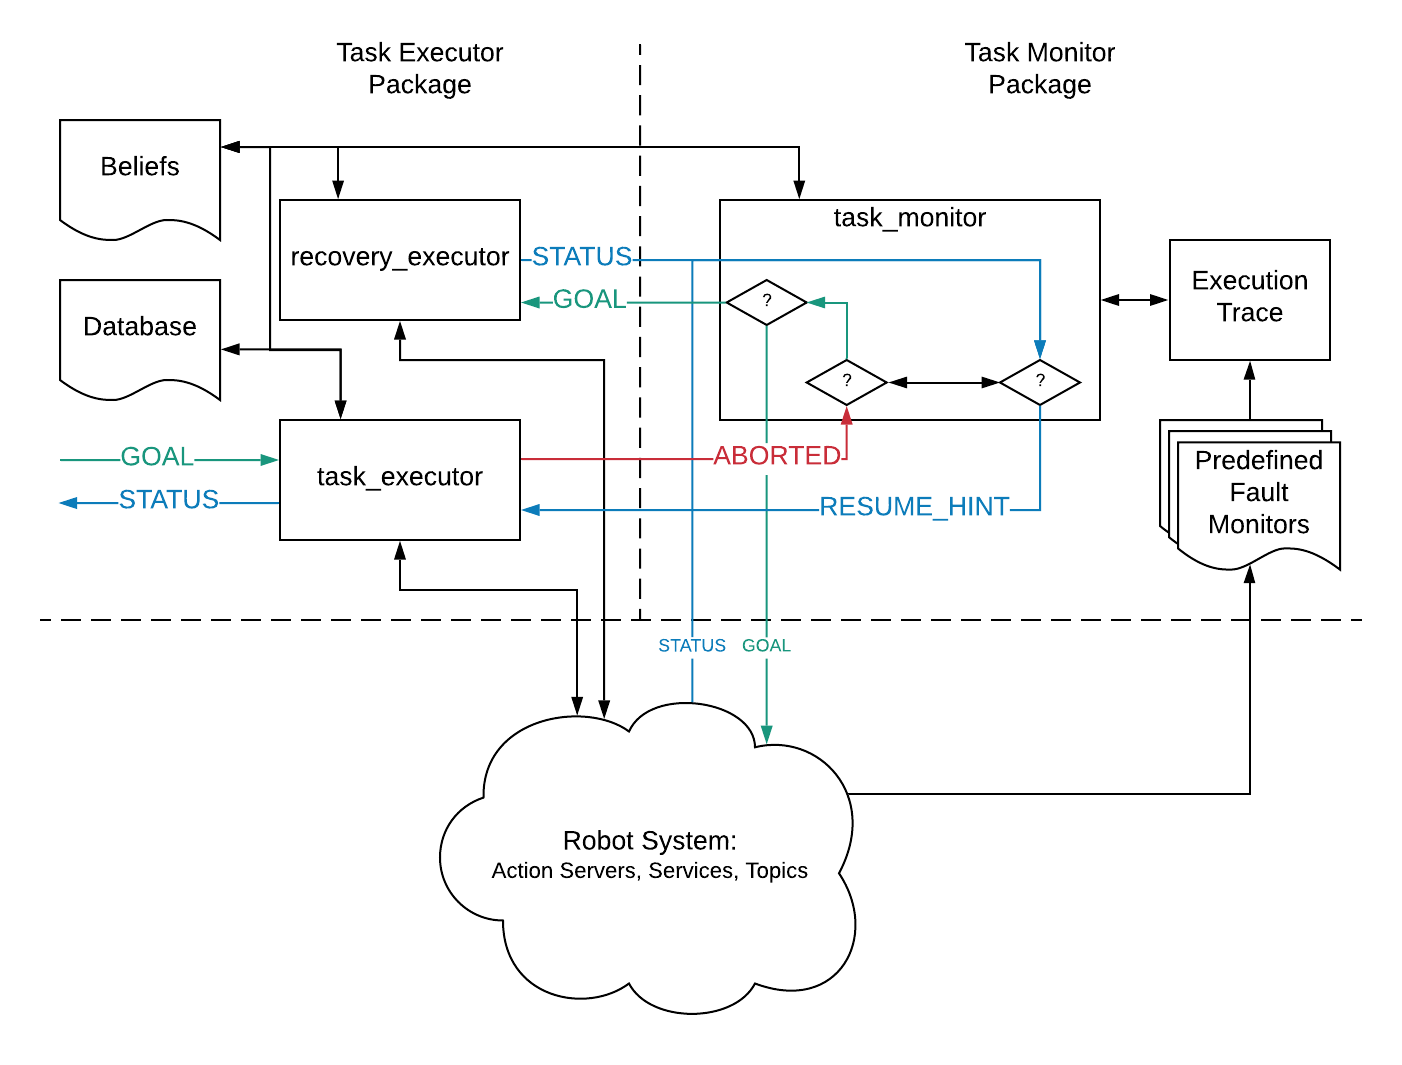
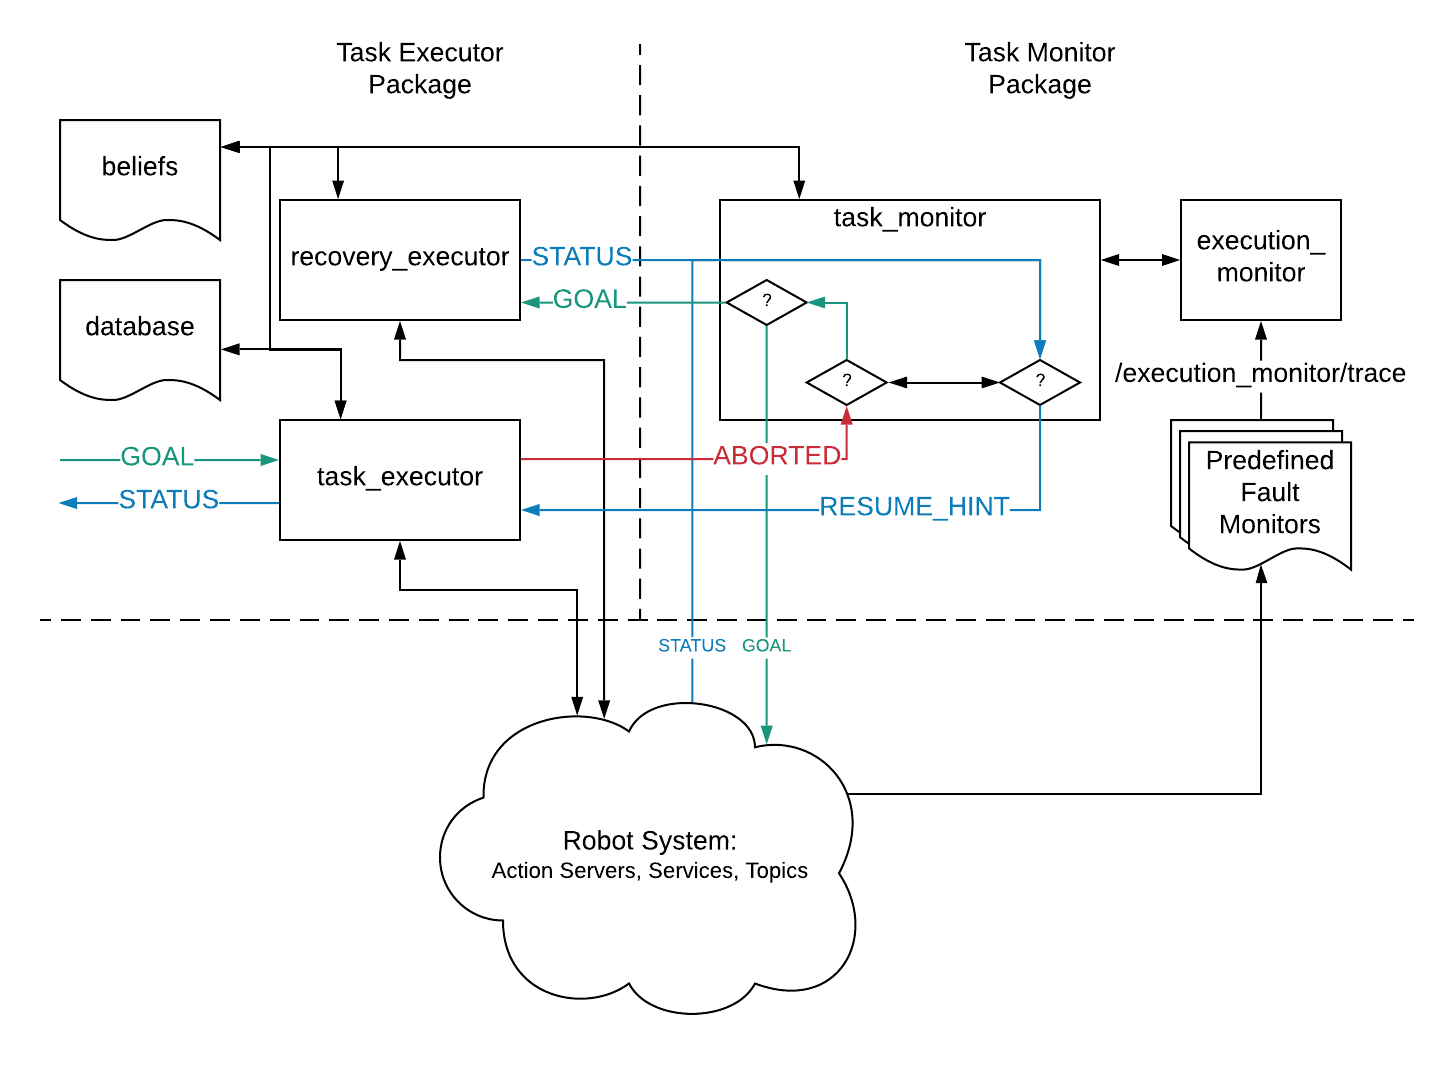
Completed an overview of the package and the main nodes

diff --git a/task_execution/README.md b/task_execution/README.md
@@ -12,3 +12,15 @@ This folder encapsulates the task execution interface packages that dictate the 
 The overall architecture between the packages is shown in the following figure.
 
 ![Package Structure](doc/package_structure.png)
+
+At a high level, the flow of control is as follows:
+
+1. Tasks, defined as sequences of robot actions, are assigned to the `task_executor` node using an [`ExecuteActionGoal`](task_execution_msgs/action/Execute.action). The available tasks are generally defined at [`tasks.yaml`](task_executor/config/tasks.yaml)
+1. The `task_executor` calls various actions, services, etc. in the robot system to accomplish the task. As part of the execution, there are 2 sources of information that the executor can use to parameterize its actions or the control flow:
+    1. The `database` node contains known locations and/or joint poses in the environment that can be used as inputs for actions. The entries in the `database` are generally available in [`data.yaml`](task_executor/config/data.yaml)
+    1. The `beliefs` node is designed to keep track of semantic aspects of the robot or world state through the progress of the task. Beliefs are continuous values between 0 and 1 that can be updated by any node in a non-Bayesian manner by publishing to `/execution_monitor/trace`. The beliefs that are tracked are defined at [`BeliefKeys.msg`](task_execution_msgs/msg/BeliefKeys.msg)
+1. If the task succeeds, or is preempted, the `task_executor` returns the corresponding status (`actionlib_msgs/GoalStatus`) and result
+1. If the `task_executor` encounters an error, it generates a [`RequestAssistanceActionGoal`](task_execution_msgs/action/RequestAssistance.action) for the `task_monitor` and then awaits a [`RequestAssistanceActionResult`](task_execution_msgs/action/RequestAssistance.action) from it, which contains a `resume_hint` on how to (or not to) proceed with the task
+1. When addressing a `RequestAssistanceActionGoal`, the `task_monitor` has the option of executing recovery actions itself. It can do this through the `recovery_executor`, which is simply another instantiation of the `task_executor`
+1. In order to decide the recovery strategies to use, the `task_monitor` has access to a trace of tasks and faults that have been completed through the `execution_monitor`. The latter logs [`ExecutionEvent`](task_execution_msgs/msg/ExecutionEvent.msg) messages, which are sent out on the topic `/execution_monitor/trace`
+1. In addition to the `task_executor`, which publishes to `/execution_monitor/trace` the status of each of its actions as they are completed, dedicated fault monitors also publish fault statuses of different components as and when faults are detected.
